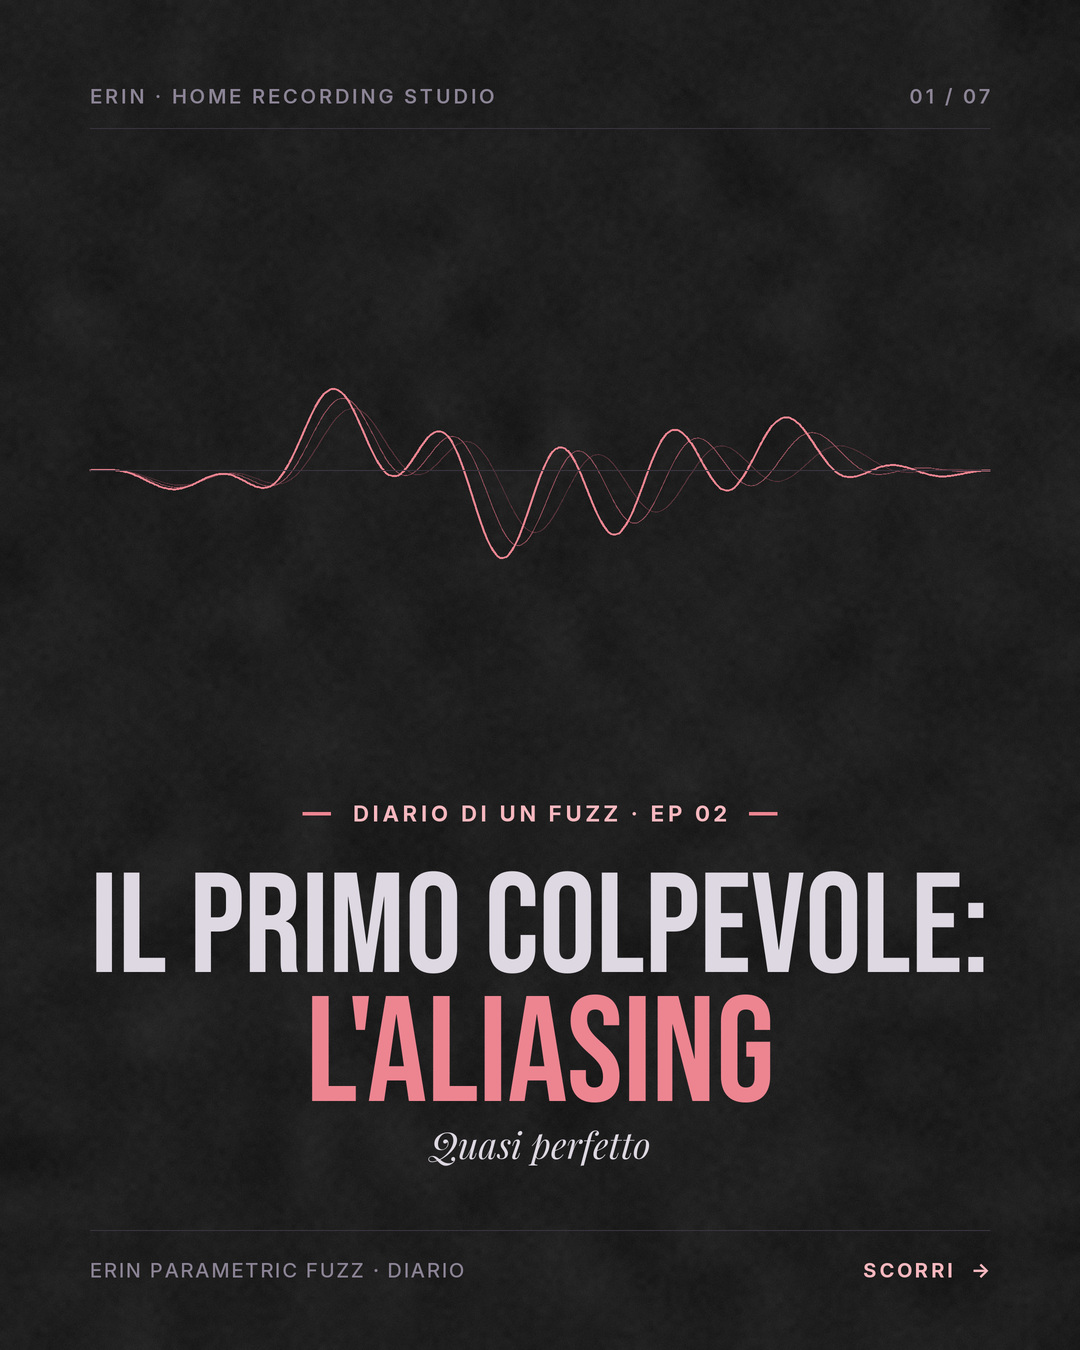
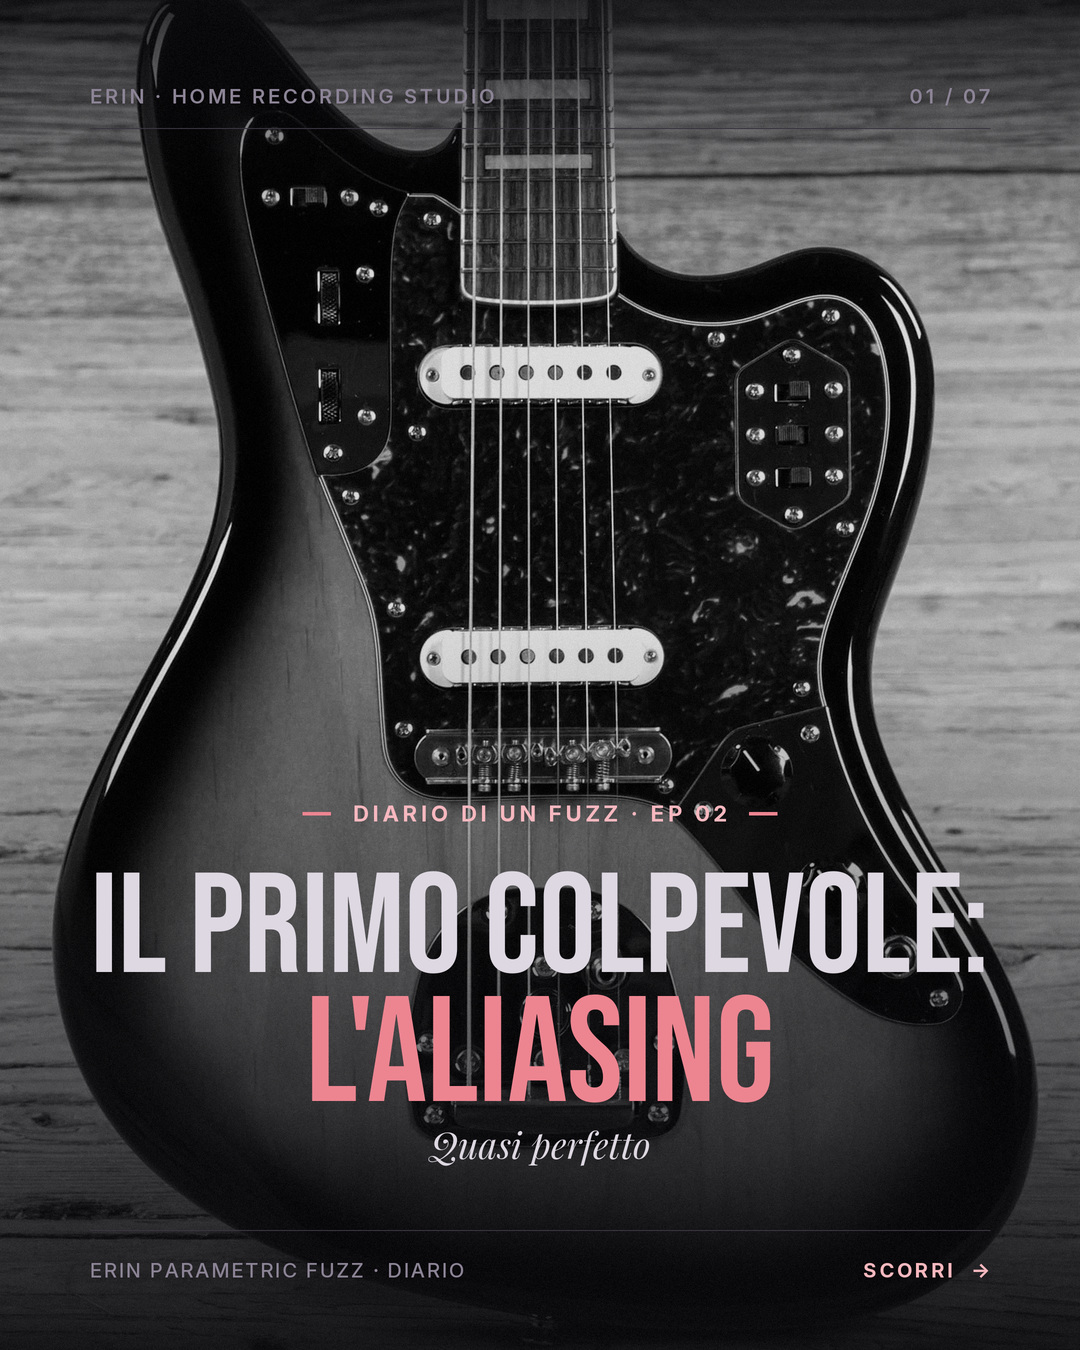
Diario di un fuzz: copertine con foto (loghi rimossi), scurimento regolabile
Claude-Session: https://claude.ai/code/session_01B2PW5xtQpEv7FQVDexaPvm

diff --git a/reels/carousel.py b/reels/carousel.py
@@ -67,7 +67,8 @@ def heading(c, s, y=190):
 
 def slide_cover(c, s, i, n, root):
     if s.get("photo"):
-        c.portrait(root / s["photo"], focus=tuple(s.get("focus", (0.5, 0.35))), zoom=s.get("zoom", 1.0))
+        c.portrait(root / s["photo"], focus=tuple(s.get("focus", (0.5, 0.35))), zoom=s.get("zoom", 1.0),
+                   fade_from=s.get("fade_from", 0.45), darken=s.get("darken", 0.15))
     else:
         wave(c, s.get("wave_seed", zlib.crc32(s["title"].encode())))
     c.header(BRAND, f"{i:02d} / {n:02d}")
